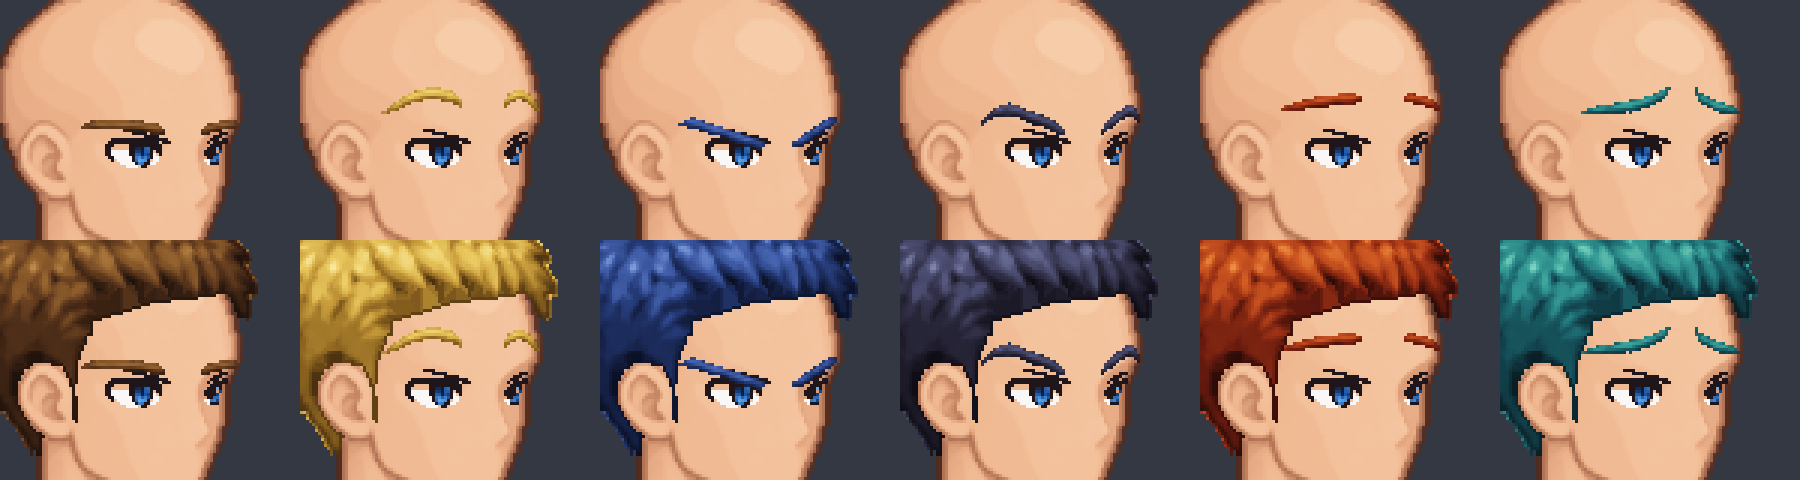
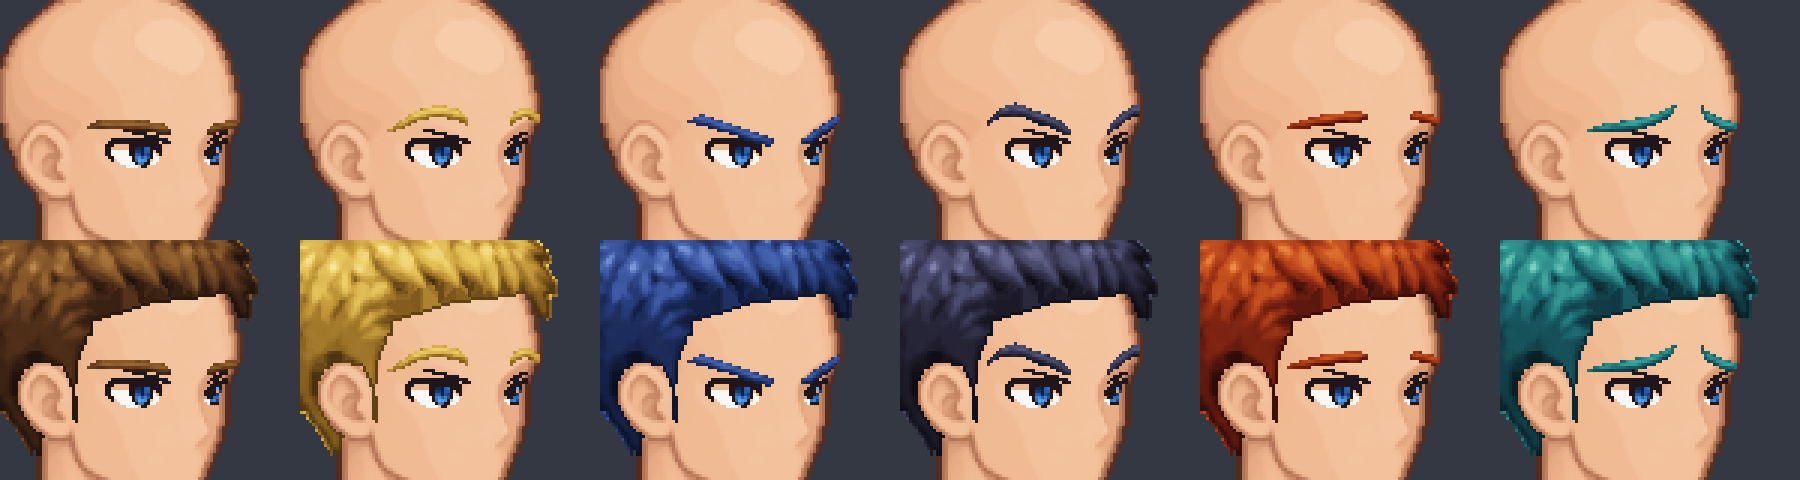
Eyebrows: place by the eyes with one scale per sheet (fixes brows sitting too high)
Claude-Session: https://claude.ai/code/session_01M8ejkLTav7LEMdtajuWjkN

diff --git a/art_source/new_art/portraits/process_brows.py b/art_source/new_art/portraits/process_brows.py
@@ -16,7 +16,11 @@ ROOT = os.path.join(HERE, '..', '..', '..')
 EXPR = ['neutral', 'smile', 'stern', 'grin', 'sleepy', 'worried']
 
 
-def main(sex):
+SCALE = None
+
+
+def main(sex, scale=None):
+    global SCALE; SCALE = scale
     a = np.asarray(Image.open(os.path.join(HERE, 'source', f'brows_{sex}_sheet.png')).convert('RGB')).astype(int)
     r, g, b = a[..., 0], a[..., 1], a[..., 2]
     green = (g - r > 60) & (g - b > 60)
@@ -53,11 +57,13 @@ def main(sex):
         cr, cg, cb = ac[..., 0], ac[..., 1], ac[..., 2]
         cblue = (cb - cr > 40) & (cb - cg > 20)
         # eye refinement: drawn blue iris centroid -> base iris centroid
-        pb = place(best, cblue, Image.BOX)
-        if pb.sum() > 3:
-            yy, xx = np.indices(pb.shape)
-            dx = ix.mean() - (xx * pb).sum() / pb.sum(); dy = iy.mean() - (yy * pb).sum() / pb.sum()
-            if abs(dx) < 6 and abs(dy) < 6: best = [best[0], best[1] + dx, best[2] + dy]
+        # brows must keep their distance to the eyes: place the cell so its drawn iris lands exactly on the base iris
+        # (scale from the silhouette fit, median over the sheet; position from the eyes only)
+        cyy, cxx = np.where(cblue & (np.indices(cblue.shape)[1] < np.percentile(np.where(cblue)[1], 100)))
+        near = cxx < cxx.min() + 0.6 * (cxx.max() - cxx.min())         # near (left) eye only: the far eye is clipped
+        S = SCALE if SCALE else best[0]
+        bnear = ix < ix.min() + 0.6 * (ix.max() - ix.min())
+        best = [S, ix[bnear].mean() - cxx[near].mean() * S, iy[bnear].mean() - cyy[near].mean() * S]
         fits[expr] = dict(scale=round(float(best[0]), 4), x=round(float(best[1]), 1), y=round(float(best[2]), 1))
         red = (cr - cg > 60) & (cr - cb > 50)
         cov = place(best, red, Image.BOX)
@@ -98,4 +104,7 @@ def main(sex):
 
 
 if __name__ == '__main__':
-    main(sys.argv[1] if len(sys.argv) > 1 else 'm')
+    sx = sys.argv[1] if len(sys.argv) > 1 else 'm'
+    main(sx)                                          # first pass: per-cell silhouette scales
+    sc = float(np.median([v['scale'] for v in json.load(open(os.path.join(HERE, f'brows_fit_{sx}.json'))).values()]))
+    main(sx, sc)                                      # second pass: one scale for the sheet, eyes as anchor
